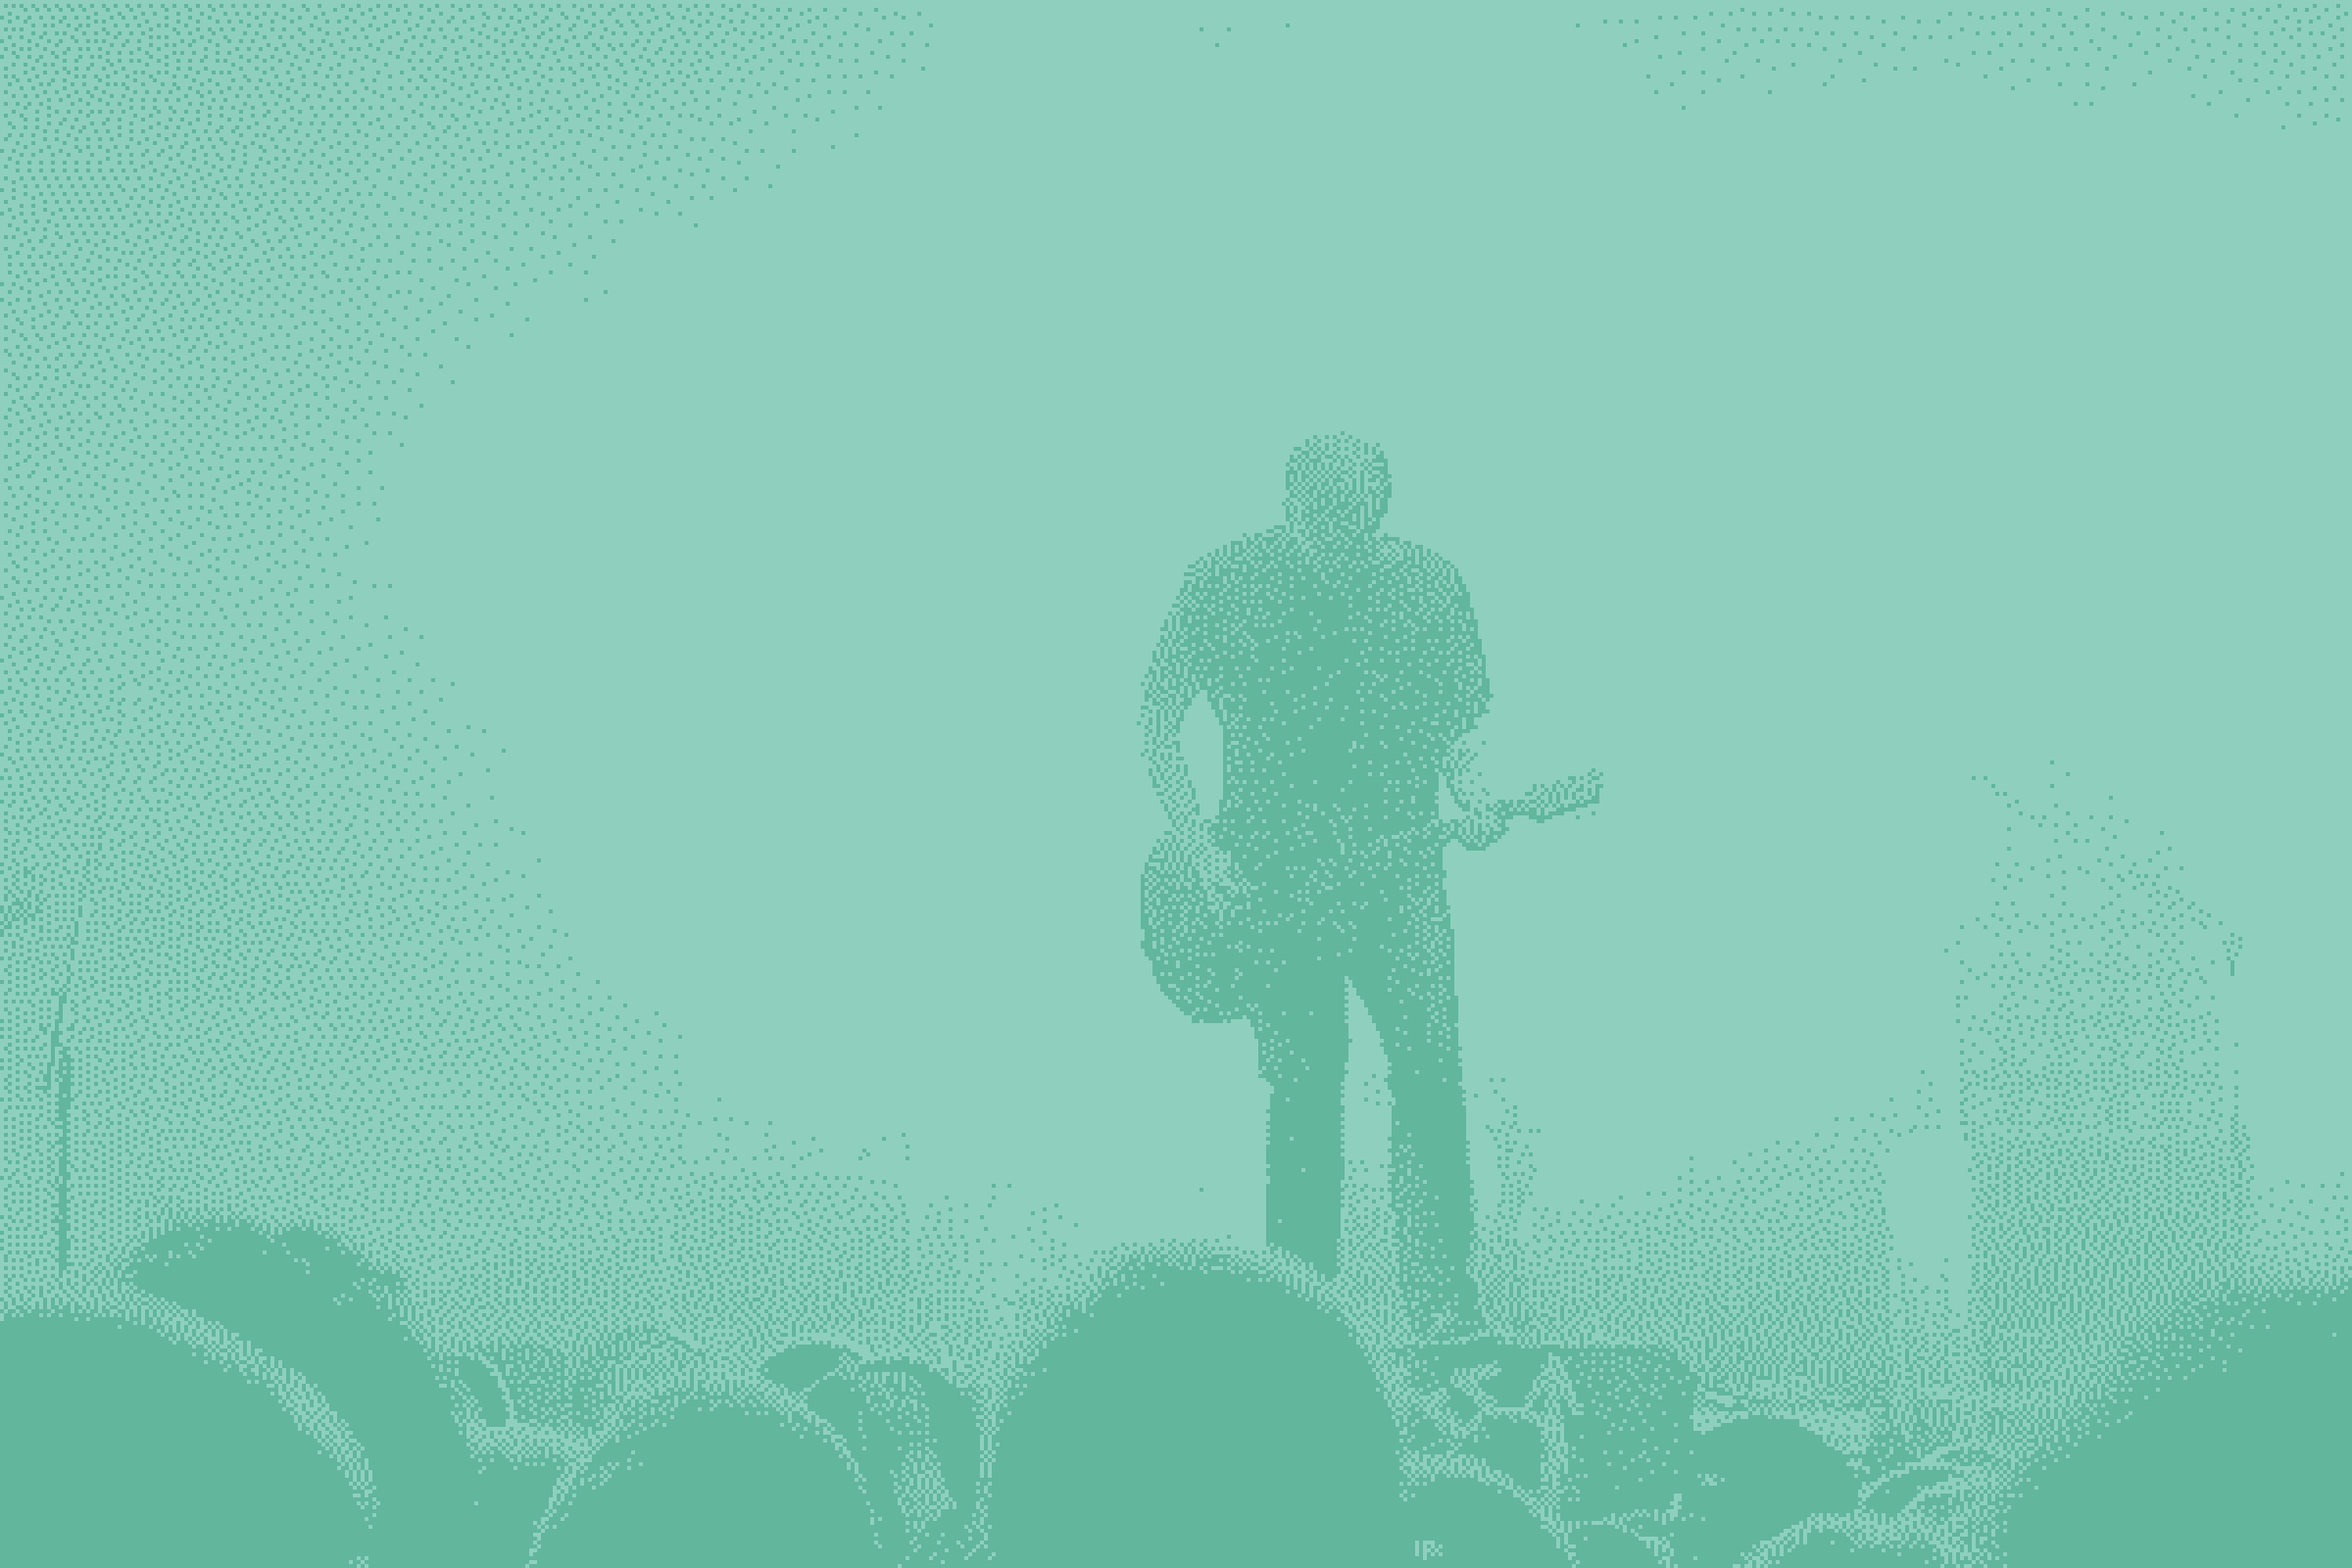
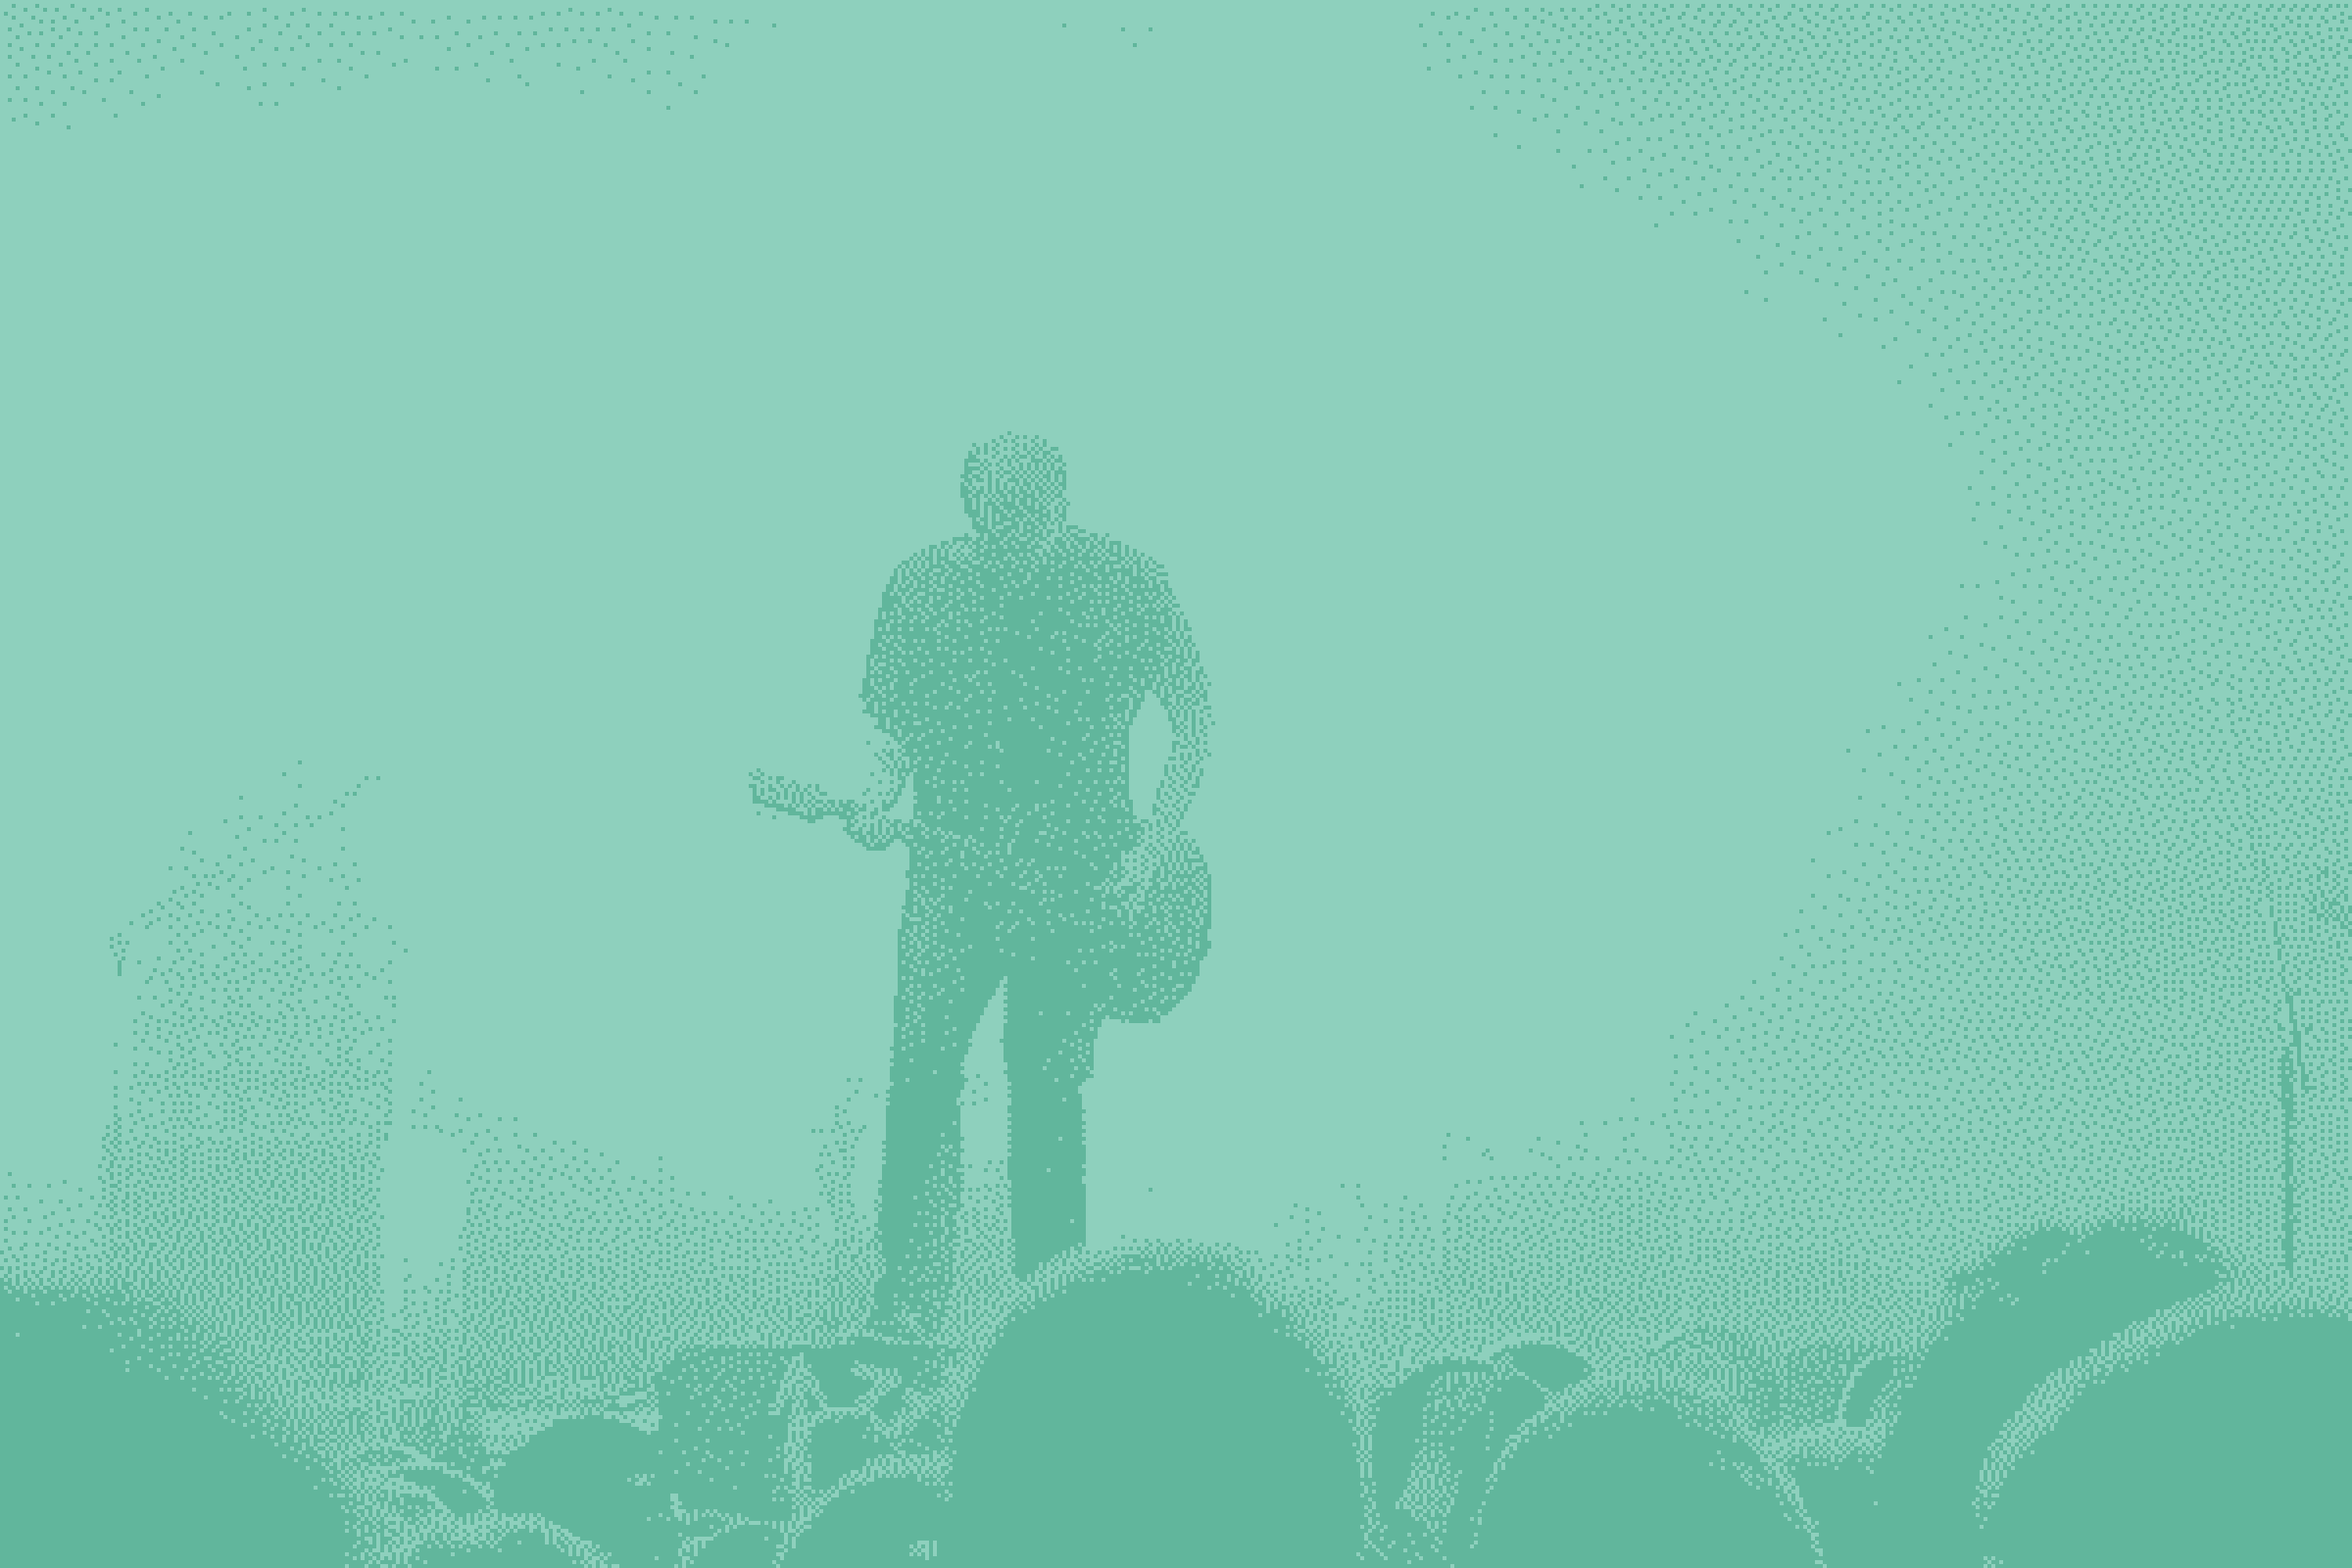
major changes unrealized

Changed region(s): [[0.0, 0.0, 1.0, 1.0]]

diff --git a/app/assets/stylesheets/application.css.scss b/app/assets/stylesheets/application.css.scss
@@ -28,7 +28,7 @@
 
 .logIn {
   @include span-columns(4);
-  @include shift(4);
+  // @include shift(4);
 }
 
 body {
@@ -36,21 +36,32 @@ body {
 }
 
 header {
-  background-color: #82C9C1;
-  background-image: url('blue_tint_x4.png');
+
+  a {
+    font-size: 1.2em;
+    color:  rgba(255, 255, 255, 1);
+    &:hover {
+      color:  rgba(255, 255, 255, 0.80);
+    }
+  }
+
+  color: white;
+  background-color: #8ED0BD;
+  background-image: url('red_orange_tint_x4_cont.png');
   background-size: cover;
   background-repeat: no-repeat;
-  background-position: 100% 90%,
+  background-position: 0% 95%,
                          bottom;
   margin-bottom: 2em;
-  @include outer-container;
+  // @include outer-container;
+  width:100%;
 
-  nav {
+  ul.nav {
     @include span-columns(6);
     @include shift(6);
     @include omega;
     color: white;
-    word-spacing: 1em;
+    // word-spacing: 1em;
     padding: 3em 2em;
 
   }
@@ -58,7 +69,7 @@ header {
   section {
     @include span-columns(3);
     @include shift(1);
-    height: 15em;
+    // height: 15em;
     color: white;
   }
 
@@ -67,40 +78,40 @@ header {
     @include shift(2);
     padding:  2em;
     color: white;
-    margin-top: -1em;
+    // margin-top: -1em;
   }
 }
-
+  // aside {
+  //   @include span-columns(4);
+  //   @include omega;
+  //
+  // }
   article {
     // height: 14em;
     @include outer-container;
-    // margin-bottom: 4em;
+    margin-bottom: 4em;
     section {
-      @include span-columns(6);
+      @include span-columns(8);
       @include shift(2);
     }
-    aside {
-      @include span-columns(4);
-      @include omega;
 
-    }
   }
 
 footer {
   @include outer-container;
   background-color: #82C9C1;
-  background-image: url('blue_tint_x4.png');
+  background-image: url('red_orange_tint_x4_cont.png');
   background-size: cover;
   background-repeat: no-repeat;
   background-position: 0% 0%,
                          bottom;
-  color: white;
-  position: absolute;
-  padding: 2em;
+  div{
+    @include span-columns(12);
+    color: white;
+    padding: 2em;
     z-index: 100;
-    bottom: 0;
-    width: 100%;
-
+    // width: 100%;
+  }
 }
 
 .container {

diff --git a/app/assets/stylesheets/submission.css.scss b/app/assets/stylesheets/submission.css.scss
@@ -3,7 +3,7 @@
 // You can use Sass (SCSS) here: http://sass-lang.com/
 
 .container{
-  width: 965px;
+  // width: 965px;
 }
 
 li{
@@ -29,11 +29,13 @@ max-width:150px;
 }
 
 .form-inputs{
-  margin: auto;
-  text-align:center;
-  width: 250px;
+  // @include span-columns(6);
+  // @include shift(6);
+  // margin: auto;
+  // text-align:center;
+  // width: 250px;
 }
 
 .form-actions{
-  text-align:center;
+  // text-align:center;
 }

diff --git a/app/helpers/welcome_helper.rb b/app/helpers/welcome_helper.rb
@@ -1,2 +1,13 @@
 module WelcomeHelper
+  def resource_name
+    :user
+  end
+
+  def resource
+    @resource ||= User.new
+  end
+
+  def devise_mapping
+    @devise_mapping ||= Devise.mappings[:user]
+  end
 end
